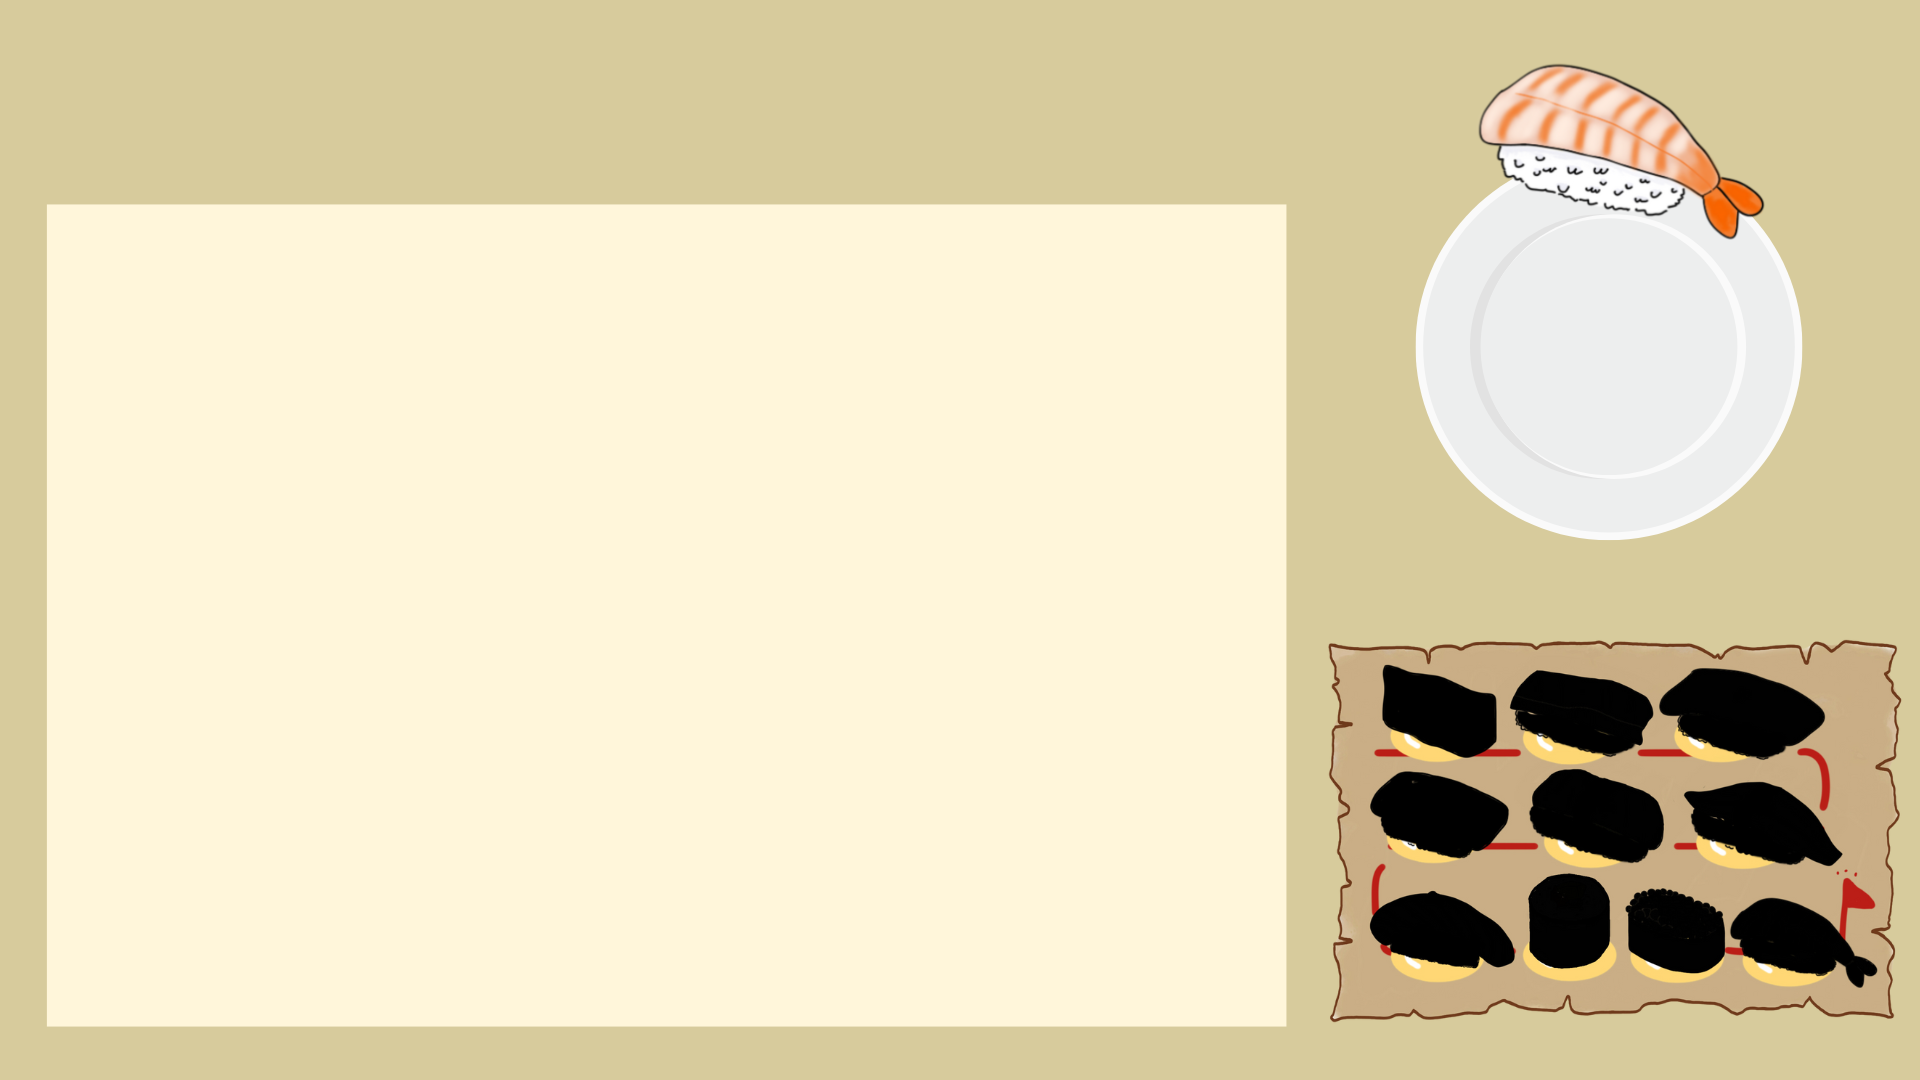
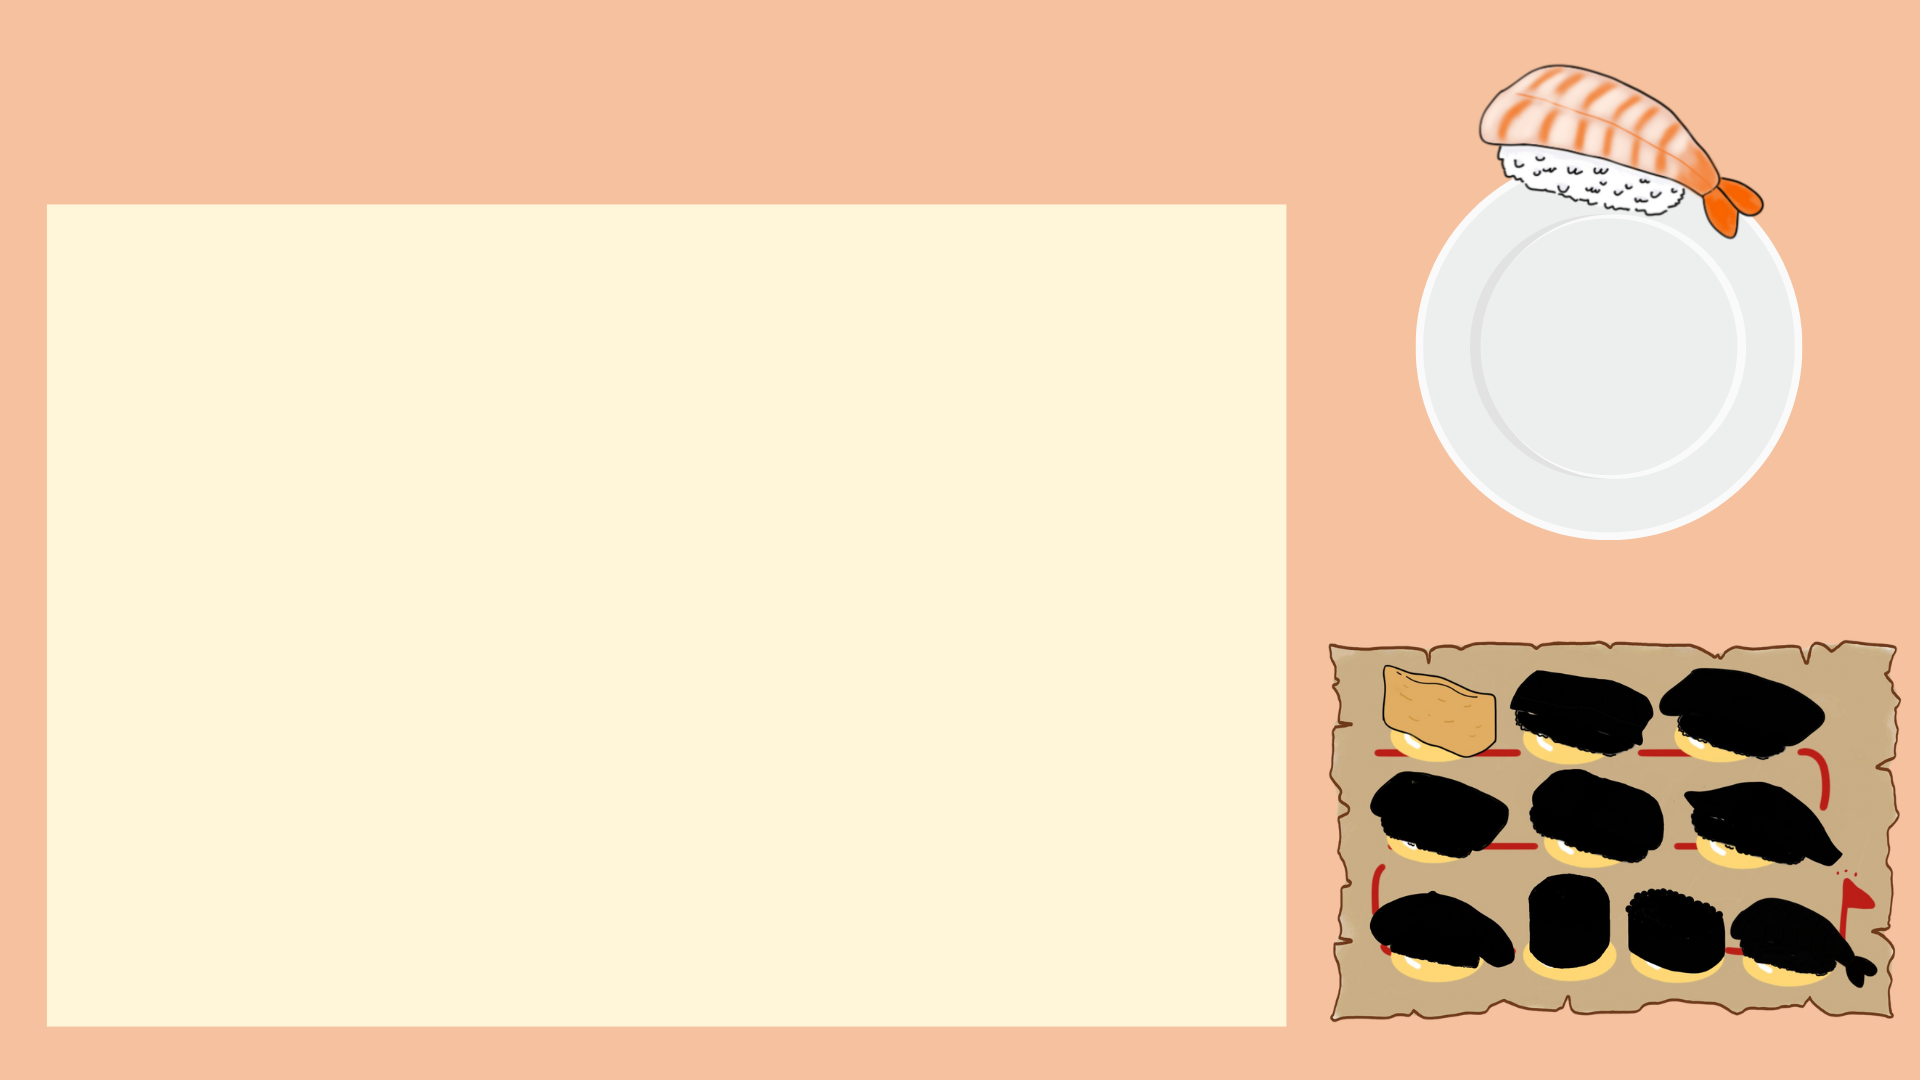
背景圖更換

diff --git a/assets/js/scene2.js b/assets/js/scene2.js
@@ -5,7 +5,7 @@ class Scene2 extends Phaser.Scene {
   }
 
   preload() {
-    this.load.image("background1", "assets/img/background1.png");
+    this.load.image("background2", "assets/img/background2.png");
     this.load.image("雨傘", "assets/img/雨傘.png");
     this.load.image("雨衣", "assets/img/雨衣.png");
     this.load.image("螺絲起子", "assets/img/螺絲起子.png");
@@ -17,7 +17,7 @@ class Scene2 extends Phaser.Scene {
 
   create() {
     // 加載背景圖片
-    this.add.image(0, 0, "background1").setOrigin(0, 0); // 將中心點設為左上角
+    this.add.image(0, 0, "background2").setOrigin(0, 0); // 將中心點設為左上角
 
     // 定義六個位置
     let positions = [

diff --git a/assets/js/scene3.js b/assets/js/scene3.js
@@ -4,7 +4,7 @@ class Scene3 extends Phaser.Scene {
   }
 
   preload() {
-    this.load.image("background1", "assets/img/background1.png");
+    this.load.image("background3", "assets/img/background3.png");
     this.load.image("cat", "assets/img/貓咪.png");
     this.load.image("monkey", "assets/img/猴子.png");
     this.load.image("panda", "assets/img/熊貓.png");
@@ -13,7 +13,7 @@ class Scene3 extends Phaser.Scene {
   }
 
   create() {
-    this.add.image(0, 0, "background1").setOrigin(0, 0); // 将中心点定为左上角
+    this.add.image(0, 0, "background3").setOrigin(0, 0); // 将中心点定为左上角
 
     let correctAnswer = "elephant"; // 正確答案的 key
 

diff --git a/assets/js/scene5.js b/assets/js/scene5.js
@@ -4,7 +4,7 @@ class Scene5 extends Phaser.Scene {
   }
 
   preload() {
-    this.load.image("background", "assets/img/background2.png");
+    this.load.image("background5", "assets/img/background5.png");
     this.load.image("cardBack", "assets/img/底.png");
     this.load.image("cantaloupe", "assets/img/哈密瓜.png");
     this.load.image("strawberry", "assets/img/草莓.png");
@@ -13,7 +13,7 @@ class Scene5 extends Phaser.Scene {
   }
 
   create() {
-    this.add.image(0, 0, "background").setOrigin(0, 0);
+    this.add.image(0, 0, "background5").setOrigin(0, 0);
 
     const fruitKeys = ["cantaloupe", "strawberry", "grape", "apple"];
     this.cards = [];

diff --git a/assets/js/scene7_2.js b/assets/js/scene7_2.js
@@ -3,13 +3,13 @@ class Scene7_2 extends Phaser.Scene {
     super({ key: "Scene7_2" });
   }
   preload() {
-    this.load.image("background", "assets/img/background3.png");
+    this.load.image("background7", "assets/img/background7.png");
     this.load.image("aImg", "assets/img/底.png");
     this.load.image("bImg", "assets/img/底.png");
   }
 
   create() {
-    this.add.image(0, 0, "background").setOrigin(0, 0); //将中心点定为左上角
+    this.add.image(0, 0, "background7").setOrigin(0, 0); //将中心点定为左上角
 
     const a = Math.floor(Math.random() * 99 + 1);
     const b = Math.floor(Math.random() * 99 + 1);

diff --git a/assets/js/scene4.js b/assets/js/scene4.js
@@ -6,7 +6,7 @@ class Scene4 extends Phaser.Scene {
   }
 
   preload() {
-    this.load.image("background", "assets/img/background2.png");
+    this.load.image("background4", "assets/img/background4.png");
 
     this.load.image("cat", "assets/img/貓咪.png");
     this.load.image("fish", "assets/img/魚.png");
@@ -22,7 +22,7 @@ class Scene4 extends Phaser.Scene {
   }
 
   create() {
-    this.add.image(0, 0, "background").setOrigin(0, 0); // 将中心点定为左上角
+    this.add.image(0, 0, "background4").setOrigin(0, 0); // 将中心点定为左上角
 
     const items = [
       { key: "cat", pair: "fish" },

diff --git a/assets/js/scene7_1.js b/assets/js/scene7_1.js
@@ -4,13 +4,13 @@ class Scene7_1 extends Phaser.Scene {
   }
 
   preload() {
-    this.load.image("background", "assets/img/background3.png");
+    this.load.image("background7", "assets/img/background7.png");
     this.load.image("aImg", "assets/img/底.png");
     this.load.image("bImg", "assets/img/底.png");
   }
 
   create() {
-    this.add.image(0, 0, "background").setOrigin(0, 0); //将中心点定为左上角
+    this.add.image(0, 0, "background7").setOrigin(0, 0); //将中心点定为左上角
 
     const a = Math.floor(Math.random() * 99 + 1);
     const b = Math.floor(Math.random() * 99 + 1);

diff --git a/assets/js/scene6.js b/assets/js/scene6.js
@@ -6,11 +6,11 @@ class Scene6 extends Phaser.Scene {
   preload() {
     this.load.image("redLight", "assets/img/red.png");
     this.load.image("greenLight", "assets/img/green.png");
-    this.load.image("background", "assets/img/background2.png");
+    this.load.image("background6", "assets/img/background6.png");
   }
 
   create() {
-    this.add.image(0, 0, "background").setOrigin(0, 0); // 将中心点定为左上角
+    this.add.image(0, 0, "background6").setOrigin(0, 0); // 将中心点定为左上角
     this.currentLight = "red";
     this.switchToRedLight();
 

diff --git a/assets/js/scene9.js b/assets/js/scene9.js
@@ -30,10 +30,6 @@ class Scene9 extends Phaser.Scene {
     this.startGame();
   }
 
-  update() {
-    // 遊戲更新邏輯
-  }
-
   generateSequence(length) {
     this.sequence = [];
     let numbers = Array.from({ length: 9 }, (_, i) => i + 1);

diff --git a/assets/js/next1.js b/assets/js/next1.js
@@ -1,0 +1,5 @@
+class Next1 extends Phaser.Scene {
+  constructor() {
+    super({ key: "Next1" });
+  }
+}
